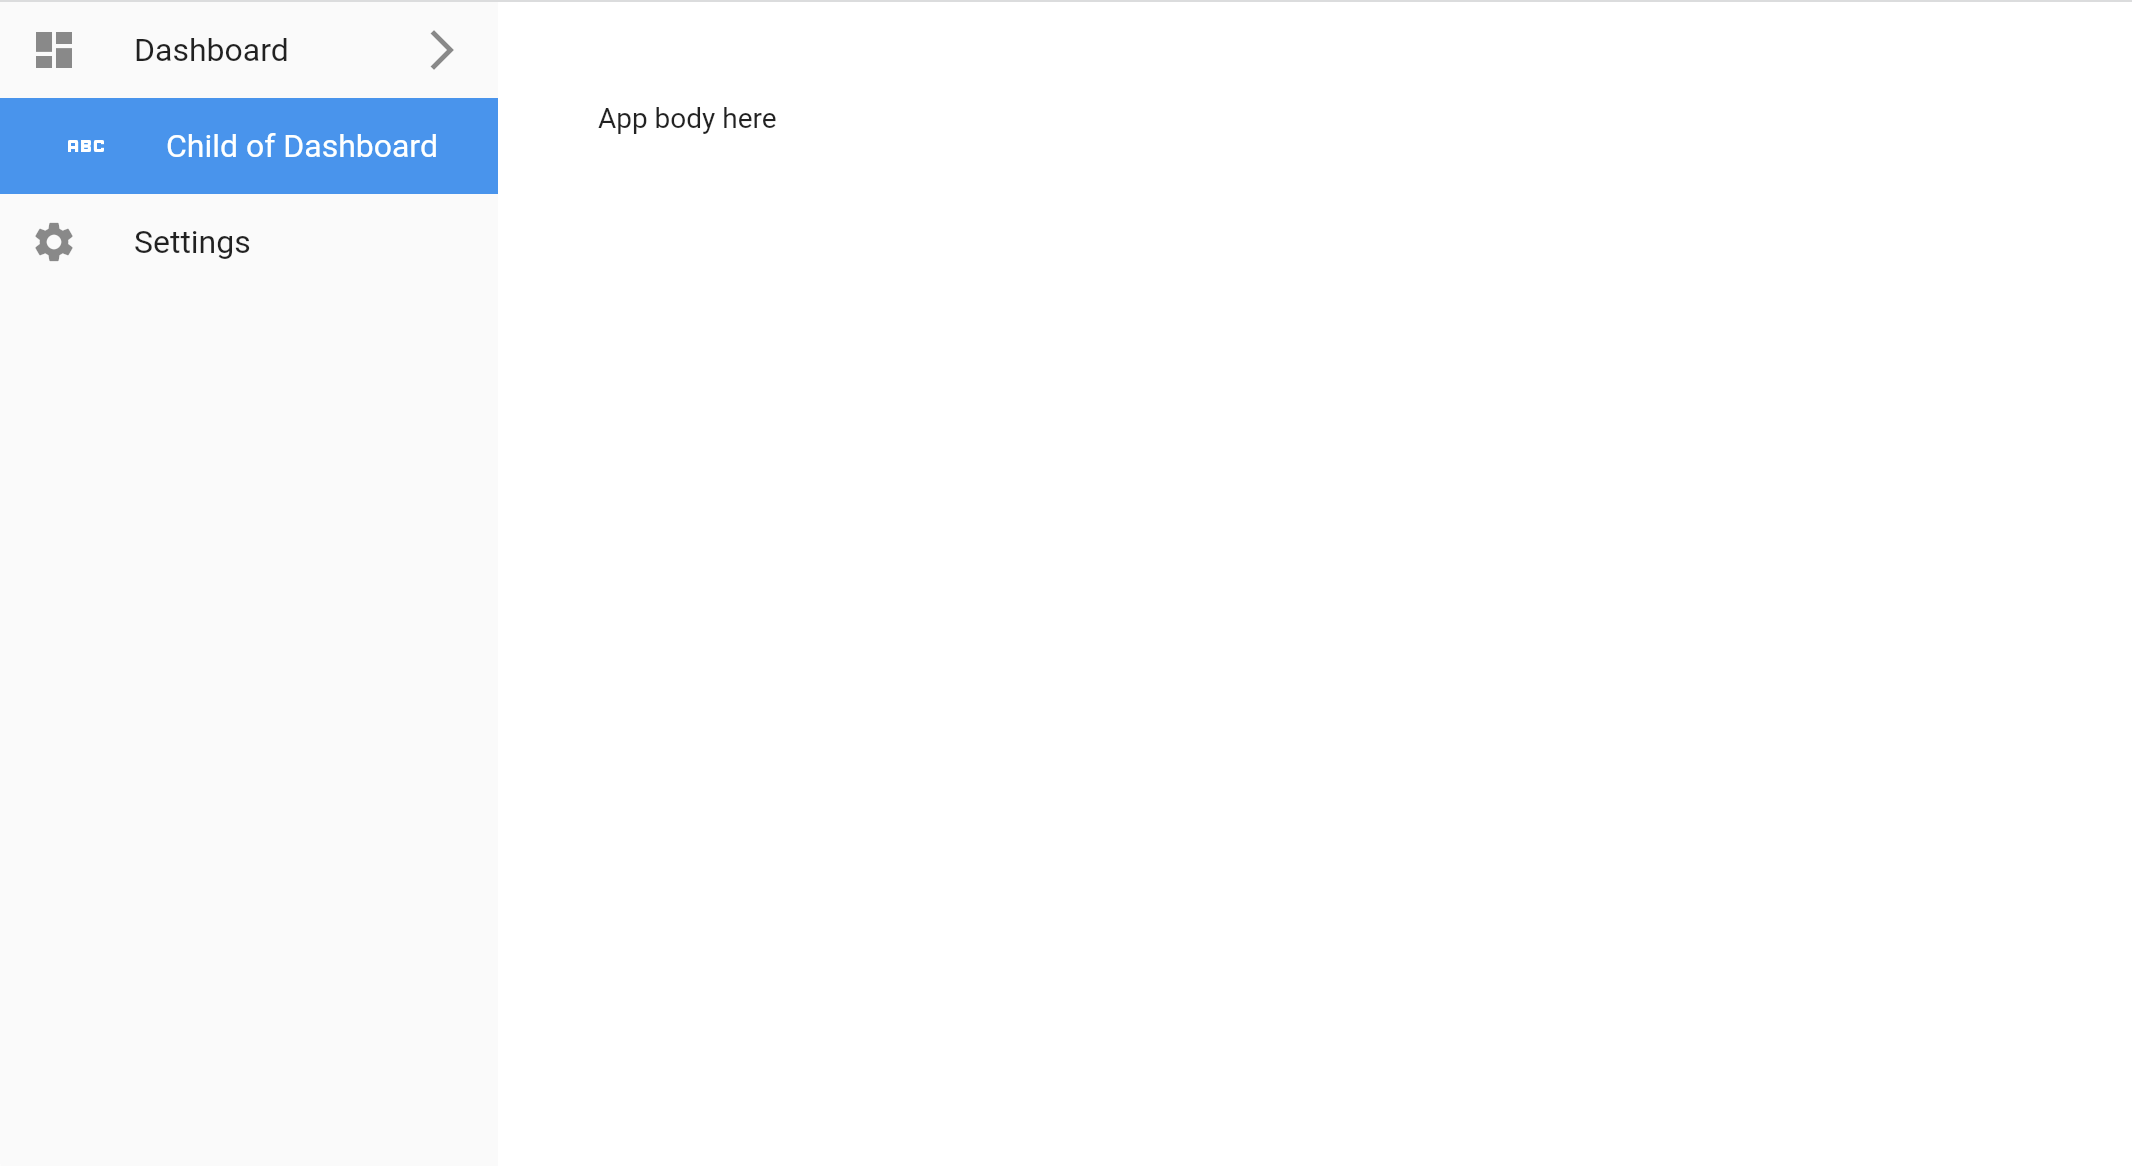
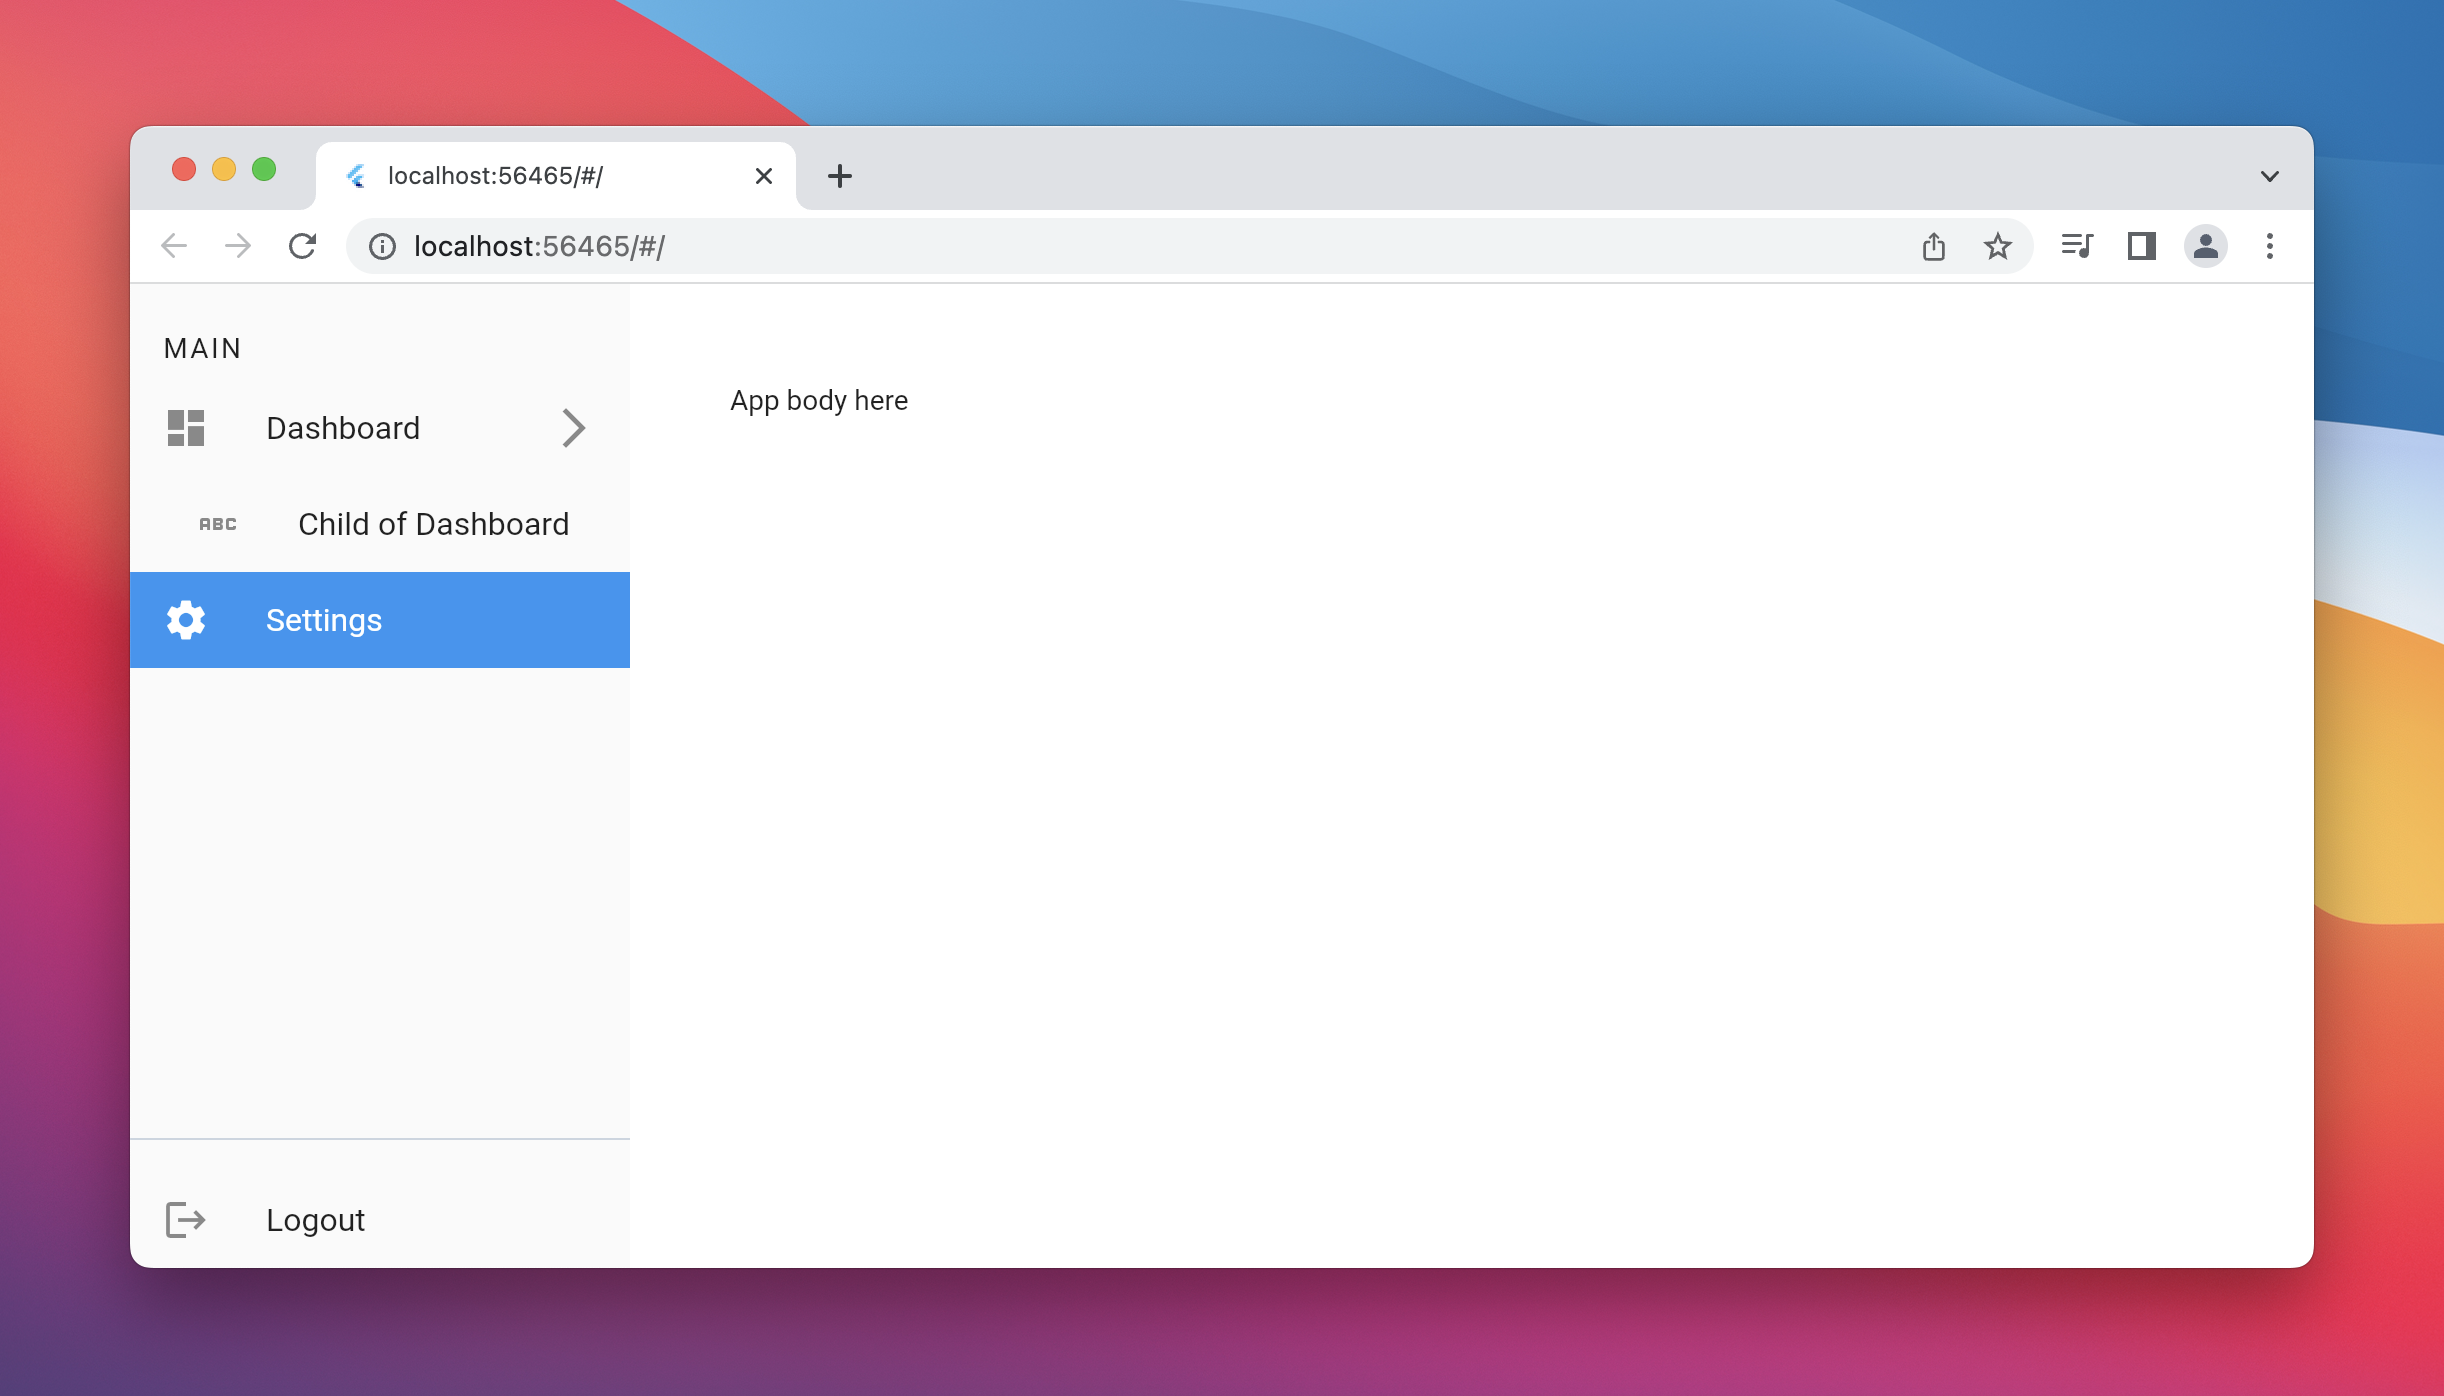
release: 0.2.0

diff --git a/lib/src/sidebar.dart b/lib/src/sidebar.dart
@@ -15,17 +15,37 @@ import 'package:tuanis_sidebar/src/section.dart';
 /// [splashColor] The color of splash for the tile's [Material].
 /// [tileColor] Defines the background color of ListTile when [selected] is false.
 class TuanisSidebar extends StatefulWidget {
+  /// Organize items into sections
   final List<TuanisSidebarSection> sections;
+
+  ///  Control how the sections are spread within the Column
   final MainAxisAlignment sectionsAligment;
+
+  /// The initial selected item id
   final String? selectedItemId;
 
+  /// Defines the color used for icons and text when the list tile is selected. (Applies to all items)
   final Color? selectedColor;
+
+  /// Defines the background color of ListTile when [selected] is true. (Applies to all items)
   final Color? selectedTileColor;
+
+  /// Defines the default color for [leading] and [trailing] icons. (Applies to all items)
   final Color? iconColor;
+
+  /// Defines the default color for the [title] and [subtitle]. (Applies to all items)
   final Color? textColor;
+
+  /// The color for the tile's [Material] when it has the input focus. (Applies to all items)
   final Color? focusColor;
+
+  /// The color for the tile's [Material] when a pointer is hovering over it. (Applies to all items)
   final Color? hoverColor;
+
+  /// The color of splash for the tile's [Material]. (Applies to all items)
   final Color? splashColor;
+
+  /// Defines the background color of ListTile when [selected] is false.  (Applies to all items)
   final Color? tileColor;
 
   TuanisSidebar({
@@ -42,24 +62,23 @@ class TuanisSidebar extends StatefulWidget {
     this.splashColor,
     this.tileColor,
   }) {
-    // assert(_allItemIdsAreUnique());
+    assert(_allItemIdsAreUnique());
   }
 
   @override
   State<StatefulWidget> createState() => _TuanisSidebar();
 
-  // bool _allItemIdsAreUnique() {
-  //   return items.map((item) => item.id).toSet().length == items.length;
-  // }
+  bool _allItemIdsAreUnique() {
+    final allItems = sections.map((s) {
+      return [...s.items][0]; // sorry for this
+    }).toList();
+    return allItems.map((item) => item.id).toSet().length == allItems.length;
+  }
 }
 
 class _TuanisSidebar extends State<TuanisSidebar> {
-  /// the width of the sidebar
   final double _width = 250;
-
-  /// current selected item
   String? _currentSelectedItemId;
-
   List<String> _expandedItemIds = [];
 
   @override
@@ -73,8 +92,11 @@ class _TuanisSidebar extends State<TuanisSidebar> {
   @override
   Widget build(BuildContext context) {
     return SingleChildScrollView(
-      child: SizedBox(
+      child: Container(
         width: _width,
+        constraints: BoxConstraints(
+          minHeight: MediaQuery.of(context).size.height,
+        ),
         child: Column(
           mainAxisAlignment: widget.sectionsAligment,
           children: _getSections(),
@@ -96,11 +118,7 @@ class _TuanisSidebar extends State<TuanisSidebar> {
         .toList();
   }
 
-  /// Returns a Column where each child can have another Column with sub-items
-  /// This method is called recursively
-  /// [items] The children of the Column currently being rendered
-  List<TuanisSidebarItem>? _getItems(List<TuanisSidebarItem> items,
-      {required int level}) {
+  List<TuanisSidebarItem>? _getItems(List<TuanisSidebarItem> items, {required int level}) {
     if (items.isEmpty) {
       return null;
     }

diff --git a/lib/src/item.dart b/lib/src/item.dart
@@ -2,16 +2,26 @@ import 'package:flutter/material.dart';
 import 'package:tuanis_sidebar/src/core/ext.dart';
 
 /// Represents an item in the sidebar
+///
 /// [id] The item identifier. Used to know if this is the active item
-/// [tile] A ListTile component. The properties of this component will override any global property
+/// [tile] A ListTile component. The properties of this component will override any property from the Sidebar component
 /// [expandIcon] The icon to show when the item has subitems. The default value is `arrow_forward_ios`
 /// [isSelected] If true, then the item is shown as selected
 /// [items] The sub-items
 class TuanisSidebarItem extends StatefulWidget {
+  /// The item identifier. Used to know if this is the active item
   final String id;
+
+  /// A ListTile component. The properties of this component will override any property from the Sidebar component
   final ListTile tile;
+
+  /// The icon to show when the item has subitems. The default value is `arrow_forward_ios`
   final Icon? expandIcon;
+
+  /// If true, then the item is shown as selected
   final bool isSelected;
+
+  /// The sub-items
   final List<TuanisSidebarItem> items;
 
   const TuanisSidebarItem({
@@ -29,8 +39,7 @@ class TuanisSidebarItem extends StatefulWidget {
   @override
   State<StatefulWidget> createState() => _TuanisSidebarItem();
 
-  TuanisSidebarItem copyWith(
-      {required ListTile extTile, required bool extIsSelected}) {
+  TuanisSidebarItem copyWith({required ListTile extTile, required bool extIsSelected}) {
     return TuanisSidebarItem(
       id: id,
       tile: extTile,
@@ -51,8 +60,7 @@ class _TuanisSidebarItem extends State<TuanisSidebarItem> {
   Widget build(BuildContext context) {
     return widget.tile.setDefaults(
       defaultSelected: widget.isSelected,
-      defaultTrailing:
-          widget.items.isNotEmpty ? const Icon(Icons.arrow_forward_ios) : null,
+      defaultTrailing: widget.items.isNotEmpty ? const Icon(Icons.arrow_forward_ios) : null,
     );
   }
 }

diff --git a/lib/src/section.dart b/lib/src/section.dart
@@ -1,10 +1,23 @@
 import 'package:flutter/material.dart';
 import 'package:tuanis_sidebar/tuanis_sidebar.dart';
 
+/// Represents a section of the sidebar containing a list of items
+///
+/// [items] The items of this section
+/// [backgroundColor] The background color of the section. Shown only if [title] is passed
+/// [borderColor] Top border color, if null, no border is shown
+/// [title] The text to display at the top of the section, before the items
 class TuanisSidebarSection extends StatelessWidget {
+  /// The items of this section
   final List<TuanisSidebarItem> items;
+
+  /// The background color of the section. Shown only if [title] is passed
   final Color? backgroundColor;
+
+  /// Top border color, if null, no border is shown
   final Color? borderColor;
+
+  /// The text to display at the top of the section, before the items
   final Text? title;
 
   const TuanisSidebarSection({
@@ -34,7 +47,7 @@ class TuanisSidebarSection extends StatelessWidget {
           ),
           child: title,
         ),
-        ...items
+        ...items,
       ],
     );
   }

diff --git a/example/lib/main.dart b/example/lib/main.dart
@@ -20,6 +20,7 @@ class Example extends StatelessWidget {
         crossAxisAlignment: CrossAxisAlignment.stretch,
         children: [
           TuanisSidebar(
+            sectionsAligment: MainAxisAlignment.spaceBetween,
             selectedColor: Colors.white,
             selectedTileColor: Colors.blue,
             selectedItemId: 'settings',

diff --git a/CHANGELOG.md b/CHANGELOG.md
@@ -11,3 +11,5 @@
 - each item now receives a ListTile component to facilite color customizations
 - global (apply to all items) color configuration for states like hover, focus, selected.
 
+## 0.2.0
+- items can be divided in sections
